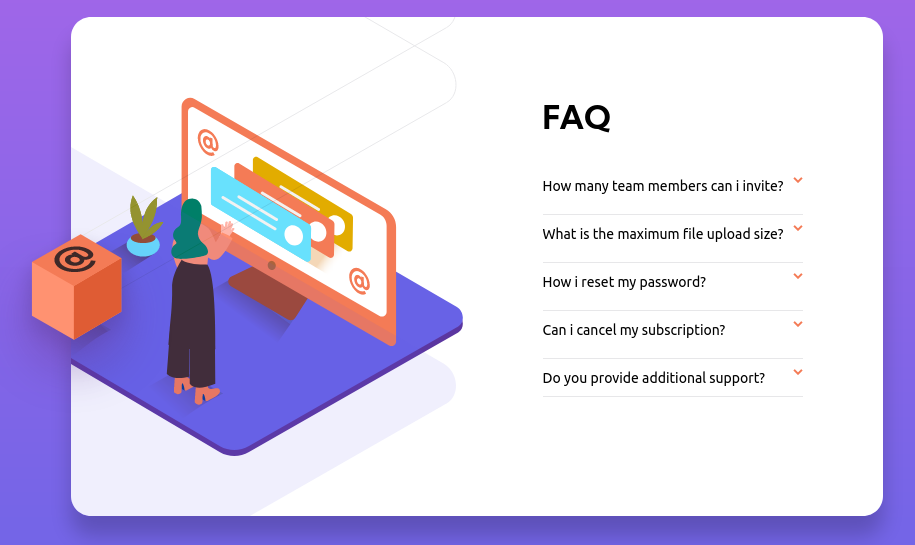
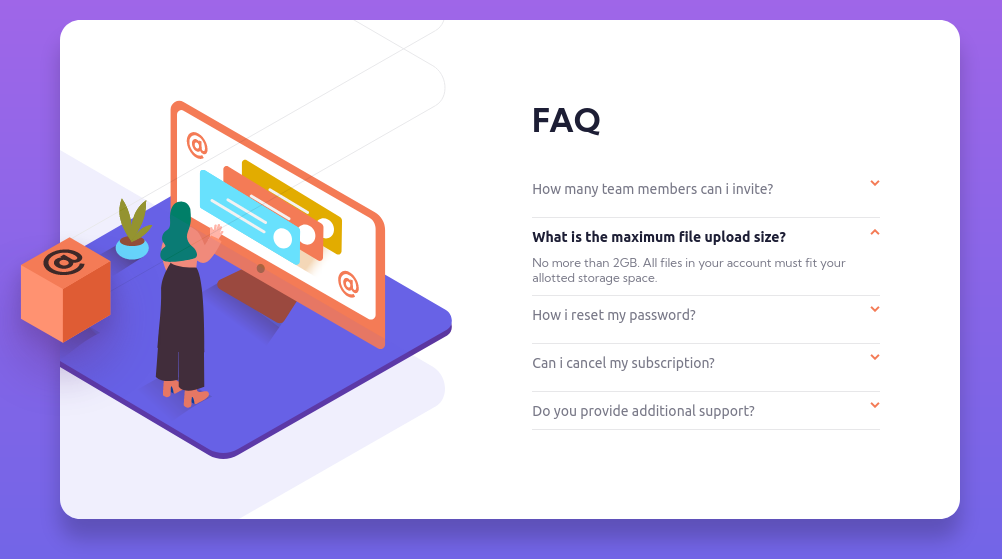
FAQ Card

diff --git a/index.html b/index.html
@@ -23,14 +23,14 @@
         </picture>
         <div class="faq-content">
           <h1>FAQ</h1>
-          <dl class="question-list">
+          <dl class="question-list color-dkgray">
             <div>
               <dt><button aria-controls="question1" aria-expanded="false">How many team members can i invite?</button></dt>
               <dd id="question1">You can invite 12 members to you team.</dd>
             </div>
             <div>
-              <dt><button aria-controls="question2" aria-expanded="false">What is the maximum file upload size?</button></dt>
-              <dd id="question2">No more than 2GB. All files in your account must fit your allotted storage space.</dd>
+              <dt><button aria-controls="question2" aria-expanded="true">What is the maximum file upload size?</button></dt>
+              <dd class="active" id="question2">No more than 2GB. All files in your account must fit your allotted storage space.</dd>
             </div>
             <div>
               <dt><button aria-controls="question3" aria-expanded="false">How i reset my password?</button></dt>

diff --git a/css/style.css b/css/style.css
@@ -67,12 +67,10 @@
 .faq-content h1 {
   font-size: 2rem;
   margin-bottom: 2.5rem;
+  color: var(--color-vdkds-blue);
 }
 .question-list {
   max-width: 50ch;
-}
-.question-list dt {
-  color: var(--color-vdkgray-blue);
 }
 .question-list dd {
   text-align: left;
@@ -94,15 +92,16 @@
 }
 .question-list button {
   width: 100%;
+  margin-bottom: 0.625rem;
   display: grid;
   grid-template-columns: auto auto;
   gap: 0.625rem;
-  margin-bottom: 0.625rem;
-  font-size: 0.875rem;
-  cursor: pointer;
-  text-align: left;
   justify-content: space-between;
   align-items: start;
+  font-size: 0.875rem;
+  color: var(--color-dkgray-blue);
+  text-align: left;
+  cursor: pointer;
 }
 .question-list button::after {
   content: "";
@@ -116,6 +115,7 @@
 }
 
 .question-list button[aria-expanded="true"] {
+  color: var(--color-vdkds-blue);
   font-weight: bold;
 }
 .question-list button:hover {
